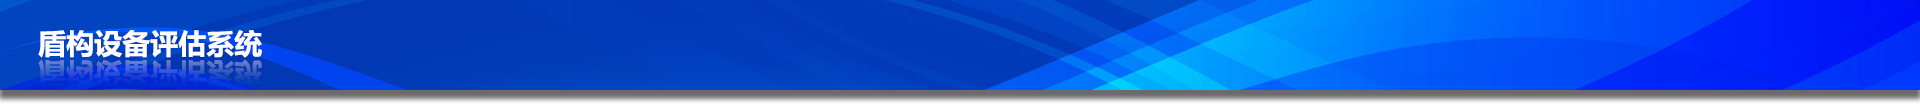
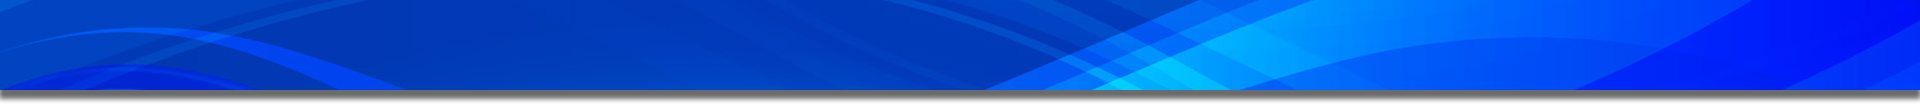
edit too much files

Changed region(s): [[0.0, 0.2885, 0.1562, 0.5481], [0.0, 0.5769, 0.1562, 0.75]]

diff --git a/src/main/resources/css/main.css b/src/main/resources/css/main.css
@@ -1,0 +1,3 @@
+#topAnchorPane{
+    -fx-background-image: url(../img/bg-top-main.png);
+}

diff --git a/src/main/java/com/yintu/zhongtie/AppApplication.java b/src/main/java/com/yintu/zhongtie/AppApplication.java
@@ -4,7 +4,6 @@ package com.yintu.zhongtie;/**
  * @version 1.0
  */
 
-import com.yintu.zhongtie.util.SpringIOCUtil;
 import javafx.application.Application;
 import javafx.fxml.FXMLLoader;
 import javafx.scene.Parent;
